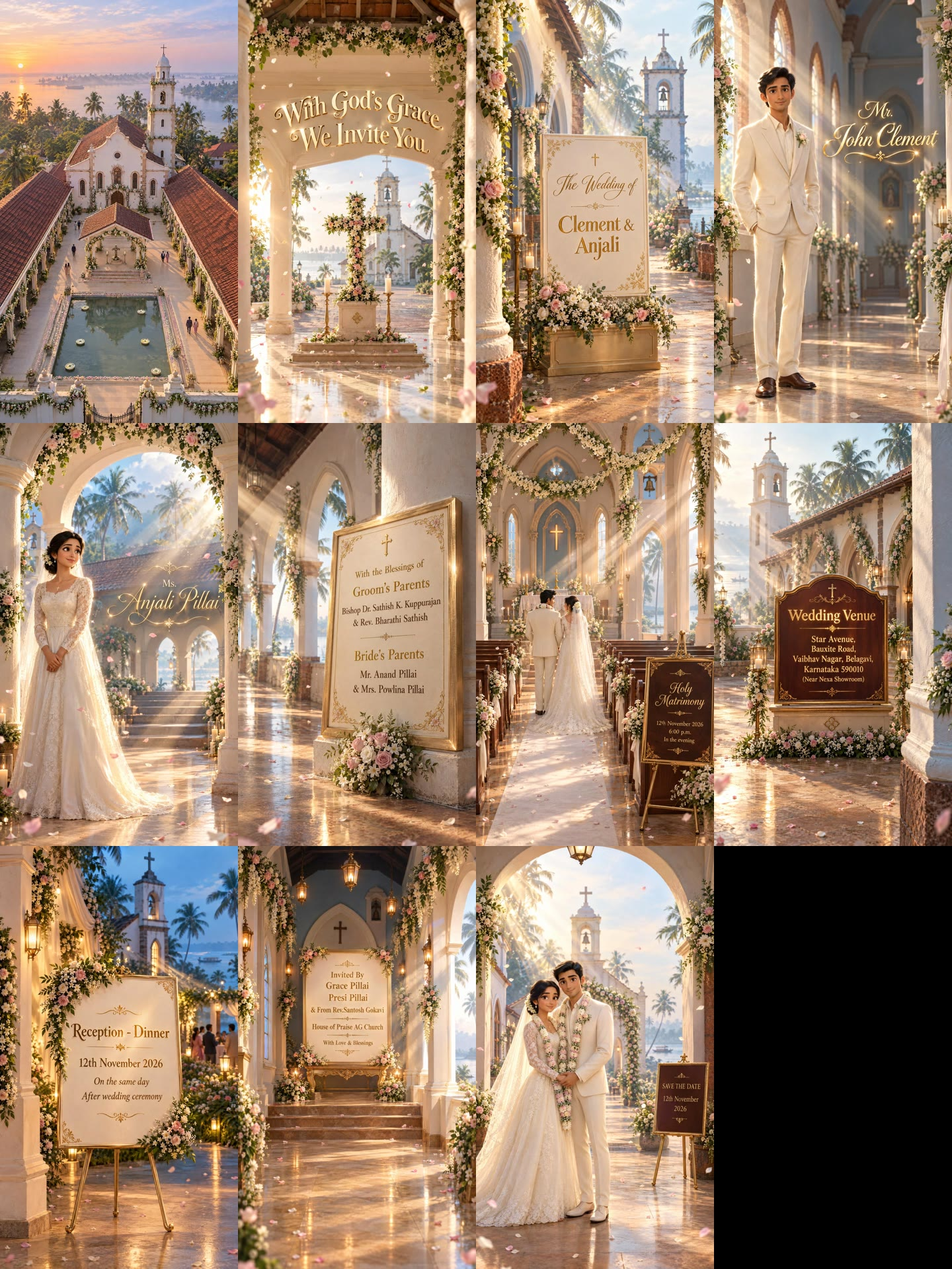
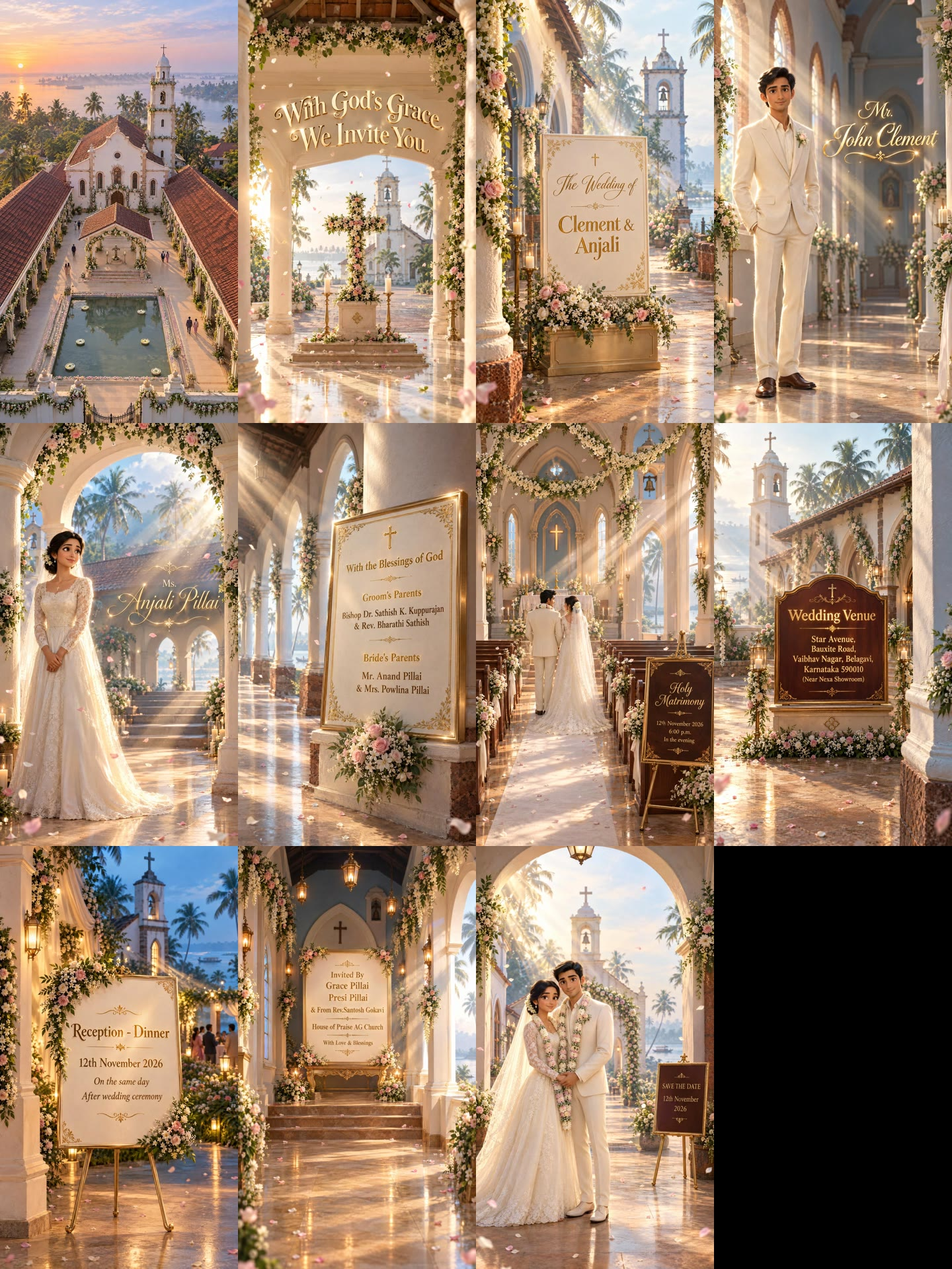
Clement & Anjali rev1: scene-06 'With the Blessings of God'; round 2 sent to client

Changed region(s): [[0.25, 0.3125, 0.5, 0.6875]]

diff --git a/FindMyInvite_Cursor_Handoff_2026-10-08_docs-and-code/Cursor_Handoff/productions/kerala-christian-vtv-mood/productions/clement-anjali-20261009-101440/scripts/edit_rev1_family_god.py b/FindMyInvite_Cursor_Handoff_2026-10-08_docs-and-code/Cursor_Handoff/productions/kerala-christian-vtv-mood/productions/clement-anjali-20261009-101440/scripts/edit_rev1_family_god.py
@@ -1,0 +1,20 @@
+#!/usr/bin/env python3
+"""Clement & Anjali REV1 (client change on /proof, relayed by Ashok 2026-10-09): family_lines line 1
+'With the Blessings of' -> 'With the Blessings of God'; rest unchanged. Re-resolves every prompt that uses {{family_lines}}."""
+import json, hashlib, shutil, datetime
+from pathlib import Path
+P = Path(__file__).resolve().parent.parent
+shutil.copy2(P/"template.json", P/f"packets/template.before-rev1-family-god-{datetime.datetime.now():%Y%m%d-%H%M%S}.json")
+t = json.loads((P/"template.json").read_text()); prm = t['parameters']
+old = "With the Blessings of\nGroom’s Parents"; assert prm['family_lines'].startswith(old), prm['family_lines']
+prm['family_lines'] = prm['family_lines'].replace(old, "With the Blessings of God\nGroom’s Parents", 1)
+def fill(s):
+    for k, v in prm.items(): s = s.replace("{{"+k+"}}", v)
+    assert '{{' not in s; return s
+touched = []
+for s in t['scenes']:
+    if '{{family_lines}}' in (s.get('image_prompt_template') or ''): s['image_prompt'] = fill(s['image_prompt_template']); touched.append(s['id'])
+for c in t['clips']:
+    if '{{family_lines}}' in (c.get('video_prompt_template') or ''): c['video_prompt'] = fill(c['video_prompt_template']); touched.append(c['id'])
+out = json.dumps(t, indent=2, ensure_ascii=False) + "\n"
+(P/"template.json").write_text(out); print("re-resolved", touched, "template sha", hashlib.sha256(out.encode()).hexdigest())

diff --git a/FindMyInvite_Cursor_Handoff_2026-10-08_docs-and-code/Cursor_Handoff/productions/PROCESS_CHANGELOG.md b/FindMyInvite_Cursor_Handoff_2026-10-08_docs-and-code/Cursor_Handoff/productions/PROCESS_CHANGELOG.md
@@ -191,3 +191,4 @@ Preserve existing stills-v5 / clips-v5 / `nandini-karthik-v5-preview.mp4`. New s
 - 2026-10-07T21:12:00+05:30 kc-v1-recreate-20261007-181228-akhil-sarah REV6 priest removed: image-7 edit (1 paid img), clips 06+07 regen (2 paid xAI), speedramp rebuilt 28.2s; Telegram photo 957, video 958, doc 959.
 - 2026-10-09T10:14:40+05:30 clement-anjali-20261009-101440 START+STILLS (Clement & Anjali: Mr. John Clement & Ms. Anjali Pillai) RECREATE_CLIENT_FILL, stills only. Base: ORIGINAL locked template bad0d176, pure parameter fill + standing scene-07 default (aisle from behind, NO priest; clip-06/07 aligned). Scenes 01-11 generated once each (11 paid Flare, no retries). Text self-check PASS 11/11. Telegram BLOCKED (TELEGRAM_EVENTSBLR_BOT_TOKEN not on VM). Video HELD until Ashok approves stills.
 - 2026-10-09T10:24:00+05:30 clement-anjali-20261009-101440 registered on /manager/clients (job 8d6365420483); 11 stills uploaded; round 1 sent; client proof link https://findmyinvite.com/proof/c2c8b32dfc1a1ef62f430fa459f133367dc5fbc70dd756f5
+- 2026-10-09T12:40:00+05:30 clement-anjali-20261009-101440 REV1: client approved 10/11 on /proof; scene-06 change -> family_lines 'With the Blessings of God'. scene-06 regenerated (1 paid Flare, total 12), text PASS; uploaded v2; round 2 sent on same proof link. Video HELD.
